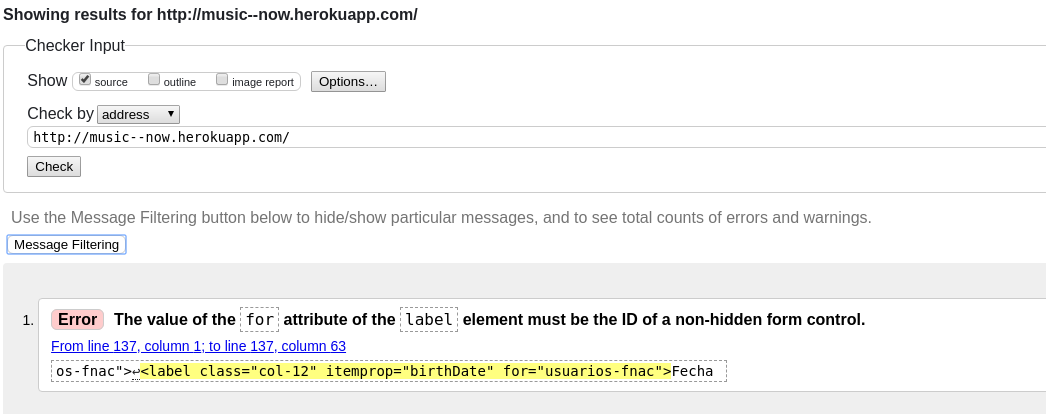
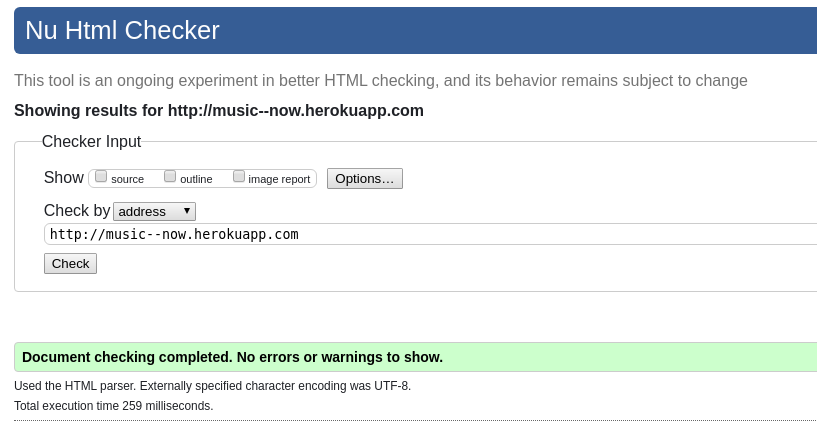
[ADD] Agrego documentación y arreglo varios errores

diff --git a/web/css/styles.css b/web/css/styles.css
@@ -780,8 +780,11 @@ textarea:focus {
     color: #000 !important;
 }
 
-[data-theme="dark"] .kv-dp-icon {
-    color: #000 !important;
+[data-theme="dark"] .kv-date-picker,
+[data-theme="dark"] .kv-date-remove {
+    border: none !important;
+    z-index: 1000;
+    background-color: var(--bar-dark);
 }
 
 [data-theme="dark"] .alert {

diff --git a/views/usuarios/login.php b/views/usuarios/login.php
@@ -85,7 +85,7 @@ kartik\icons\FontAwesomeAsset::register($this);
                                     'horizontalCssClasses' => ['wrapper' => 'col-sm-12 mx-auto'],
                                 ],
                             ]); ?>
-                                <h3 class="fs-title"><?= Yii::t('app', 'Inicia sesión con tu nombre de usuario') ?></h3>
+                                <h2 class="fs-title"><?= Yii::t('app', 'Inicia sesión con tu nombre de usuario') ?></h2>
                                 <?= $form->field($loginFormModel, 'username')->textInput(['autofocus' => true])->label(Yii::t('app', 'Nombre de usuario'), ['class' => 'col-12']) ?>
                                 <?= $form->field($loginFormModel, 'password', [
                                     'inputTemplate' => '<div class="input-group mb-3">
@@ -139,12 +139,13 @@ kartik\icons\FontAwesomeAsset::register($this);
                                         ->widget(
                                             DatePicker::classname(),
                                             [
-                                                'readonly' => true,
+                                                'removeButton' => false,
+                                                'pickerIcon' => '<em class="fas fa-calendar-alt"></em>',
                                                 'pluginOptions' => [
                                                     'todayHighlight' => true,
                                                     'todayBtn' => true,
                                                     'autoclose' => true,
-                                                    'format' => 'dd/mm/yyyy'
+                                                    'format' => 'yyyy-mm-dd',
                                                 ]
 
                                             ]
@@ -152,7 +153,7 @@ kartik\icons\FontAwesomeAsset::register($this);
                                         <?= Html::button(Yii::t('app', 'Siguiente'), ['type' => 'button', 'name' => 'next', 'class' => 'next action-button btn main-yellow']) ?>
                                     </fieldset>
                                     <fieldset>
-                                        <h3 class="fs-title"><?= Yii::t('app', 'Regístrate con tu dirección de correo electrónico') ?></h3>
+                                        <h4 class="fs-title"><?= Yii::t('app', 'Regístrate con tu dirección de correo electrónico') ?></h4>
                                         <?= $form->field($userModel, 'login')->textInput()->label(Yii::t('app', 'Nombre de usuario') . '*', ['class' => 'col-12', 'itemprop' => 'additionalName']) ?>
                                         <div class="row">
                                             <div class="col-md-6 col-12">

diff --git a/guia/descripcion.md b/guia/descripcion.md
@@ -13,9 +13,9 @@ Mus!c Now tendrá un panel de administrador al cual solo los administradores pod
 
 - Objetivo: "gestionar las canciones de cada usuario, así como la descarga de las mismas".
 - Casos de uso:
-    - Invitado: "registrarse", "buscar canciones".
-    - Usuario: "iniciar sesión", "cerrar sesión", "añadir una canción", "modificar una canción", "eliminar una canción", "modificar el perfil de usuario", "seguir a un usuario", "ser seguido por otro usuario", "ver el perfil de otro usuario", "dar like a una canción", "quitar like a una canción", "añadir un comentario en una canción", "quitar un comentario de una canción", "eliminar la cuenta", "reproducir una canción".
-    - Administrador: "iniciar sesión", "cerrar sesión", "añadir un género", "modificar un género", "eliminar un género", "añadir a un usuario", "modificar a un usuario", "eliminar a un usuario", "añadir una canción", "modificar una canción", "eliminar una canción", "borrar comentarios".
+  - Invitado: "registrarse", "buscar canciones".
+  - Usuario: "iniciar sesión", "cerrar sesión", "añadir una canción", "modificar una canción", "eliminar una canción", "modificar el perfil de usuario", "seguir a un usuario", "ser seguido por otro usuario", "ver el perfil de otro usuario", "dar like a una canción", "quitar like a una canción", "añadir un comentario en una canción", "quitar un comentario de una canción", "eliminar la cuenta", "reproducir una canción".
+  - Administrador: "iniciar sesión", "cerrar sesión", "añadir un género", "modificar un género", "eliminar un género", "añadir a un usuario", "modificar a un usuario", "eliminar a un usuario", "añadir una canción", "modificar una canción", "eliminar una canción", "borrar comentarios".
 
 ## URL del repositorio
 
@@ -23,6 +23,6 @@ Mus!c Now tendrá un panel de administrador al cual solo los administradores pod
 
 ## URL de la documentación
 
-[https://ricpelo.github.io/musicnow](https://alevidals.github.io/musicnow/)
+[https://alevidals.github.io/musicnow/](https://alevidals.github.io/musicnow/)
 
 [1]: https://www.spotify.com/

diff --git a/guia/glosario.md b/guia/glosario.md
@@ -1,3 +1,29 @@
 # Glosario de términos
 
-Indicar y definir uno por uno.
+---
+
+- **Mus!c Now**: Nombre de la aplicación.
+
+- **Seguidor**: Persona que sigue te sigue y por lo tanto podrá ver tus canciones desde la página principal.
+
+- **Seguido**: Persona a la que sigues por lo que podrás ver sus canciones desde la página principal.
+
+- **Bloqueado**: Persona que tenemos bloqueada y no podrá visualizar nuestro perfil.
+
+- **Seguir / Follow**: Acción en la cual seguimos a un usuario.
+
+- **Dejar de seguir / Unfollow*: Acción en la cual dejamos de seguir a un usuario.
+
+- **Banner**: Imagen que mostraremos en el perfil para darle algo más de diseño.
+
+- **Imagen de perfil**: Imagen de perfil del usuario.
+
+- **Playlists**: Lista que podremos crear y a la cual le podemos agregar canciones y luego escuchar solo esta lista. Esta se queda guardada.
+
+- **Cola de reproducción**: Cola a la que podemos ir agregando música para escucharlas. Esta lista no se guarda, una vez termina se elimina.
+
+- **Notificación**: mensajes que nos avisarán de que algo ha ocurrido, nuevo mensaje, nuevo seguidor, nueva solicitud de seguimiento, etc.
+
+- **Tendencias**: apartado dónde podemos ver las canciones más escuchadas y con mas likes del mes actual.
+
+- **Premium**: usuario con privilegios especiales, puede descargar canciones, tener un nombre especial, estar mejor posicionado en las búsquedas, etc.

diff --git a/guia/conclusiones.md b/guia/conclusiones.md
@@ -1,3 +1,7 @@
 # Conclusiones
 
-Explicar.
+El proyecto ha ido bastante bien desde el principio y aunque me fuera encontrando con dificultades y problemas, investigando y trabajando en esos problemas y dificultades todo se fue solucionando.
+
+Mientras hacía el proyecto he aprendido varias cosas como usar la SDK de Firebase y de PayPal, plugins de PHP (para el framework) y de jQuery, etc. También he adquirido más conocimientos sobre el framework Yii2 ya que al trabajarlo durante todo este tiempo te da tiempo a usar muchas cosas que el plugin incorpora, además te hace darte cuenta todo lo que un framework hace por ti, Aparte, realizando este proyecto, he conseguido entender el patrón MVC a su totalidad.
+
+En conclusión estoy muy contento con el resultado final, porque he podido poner en práctica todo lo aprendido durante estos años.

diff --git a/guia/decisiones.md b/guia/decisiones.md
@@ -4,6 +4,10 @@
 
 - Decidí que la página fuera completamente cargada por Ajax para así poder estar reproduciendo una canción a la vez que navegas. Esto está aplicado a toda la página excepto en las vistas donde existen formularios de creación o de actualización.
 
+### Integración de pago de cuenta premium
+
+- Decidí integrar que los usuarios pudieran hacer un pago para hacer que su cuenta fuera premium y tener varias ventajas respecto a los usuarios normales.
+
 #### Uso de widgets
 
 - [Yii2 mpdf](https://demos.krajee.com/mpdf) usé este plugin para la generación de pdfs.

diff --git a/guia/anexos.md b/guia/anexos.md
@@ -7,8 +7,6 @@
 
 ![Validación HTML](images/validacion_html.png)
 
-El error que muestra se debe a que use el componente [tabs](https://getbootstrap.com/docs/4.5/components/navs/#tabs) de Boostrap y la pestaña que no se encuentra en este momento esta oculta (display: none) por lo que dice que el valor for del attribute label no puede ser el ID de algo oculto.
-
 ### Validación CSS
 
 ![Accesibilidad CSS](images/validacion_css.png)

diff --git a/guia/dificultades.md b/guia/dificultades.md
@@ -19,3 +19,4 @@
 - [Firebase](https://firebase.google.com/) para el almacenamiento de las canciones junto a sus portadas, así también la imágenes de perfil del usuario y los banner del perfil.
 - Multilenguaje (Español e Inglés).
 - Uso del módulo de chat en Yii2.
+- Paypal, no estaba integrado desde el primer momento, pero decidí agregar esta innovación.

diff --git a/guia/diagramas.md b/guia/diagramas.md
@@ -2,7 +2,7 @@
 
 ## Diagramas de clases
 
-Incluir.
+![Diagrama ER Mus!c Now](images/diagrama_er_music_now.png)
 
 ## Diagramas de estructura lógica de datos
 
